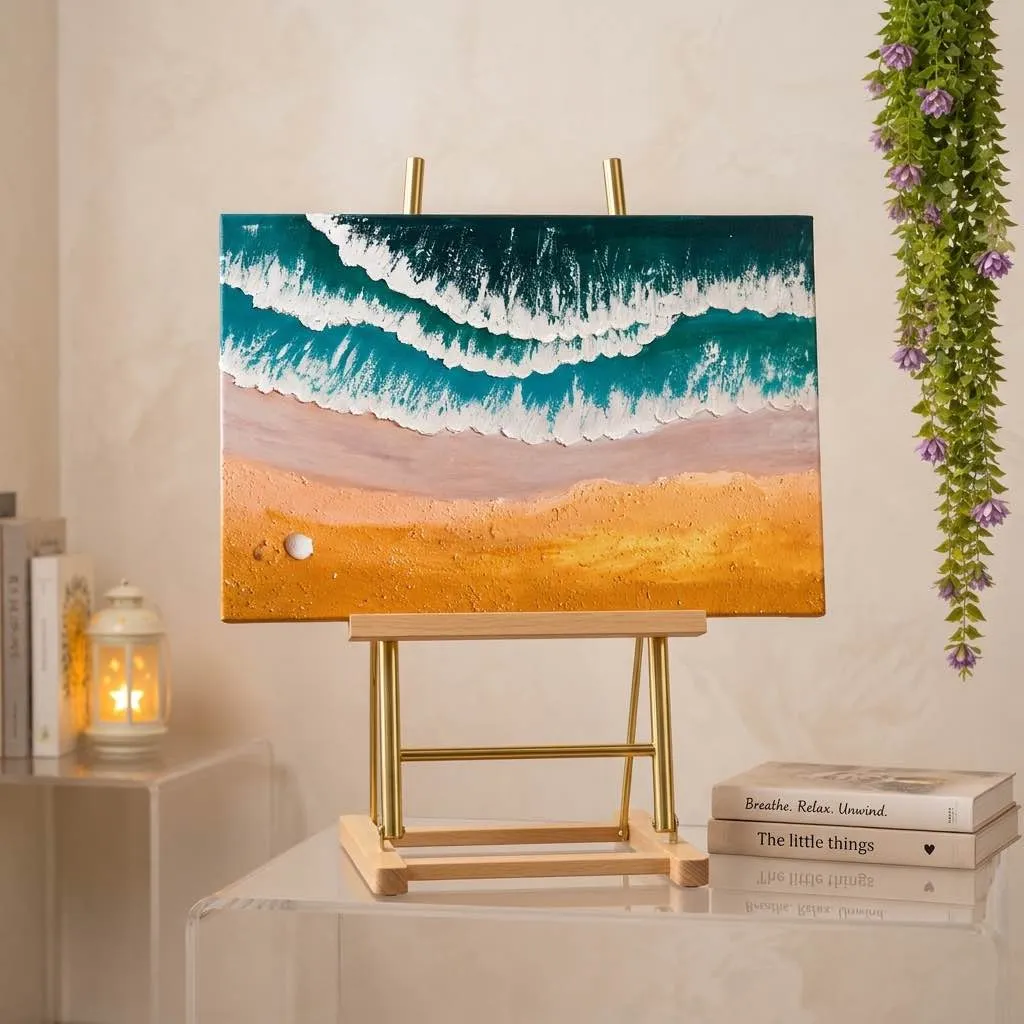
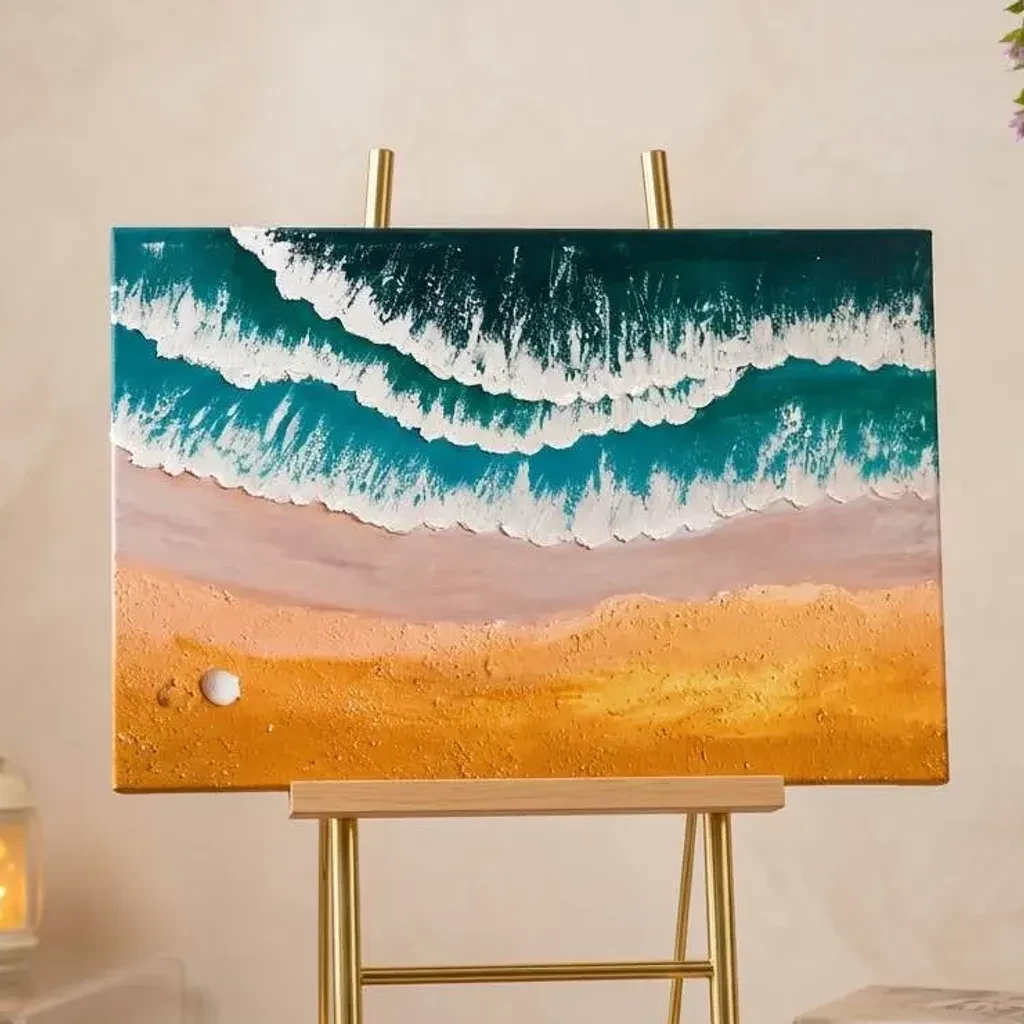
fix(preview): center artwork canvas framing in preview image and restore standard detail container

diff --git a/src/components/commerce/ArtworkDetailView.tsx b/src/components/commerce/ArtworkDetailView.tsx
@@ -69,7 +69,7 @@ export const ArtworkDetailView: React.FC<ArtworkDetailViewProps> = ({ art }) => 
 
           {/* Main Visual Display */}
           <div className="space-y-4">
-            <div className="relative aspect-square sm:aspect-square rounded-2xl overflow-hidden bg-void-card border border-glass-border shadow-2xl group">
+            <div className="relative aspect-[4/3] sm:aspect-[16/10] rounded-2xl overflow-hidden bg-void-card border border-glass-border shadow-2xl group">
               <Image
                 src={activeImage}
                 alt={`${art.title} Original Acrylic Impasto Canvas Artwork by Fiha Islam`}
